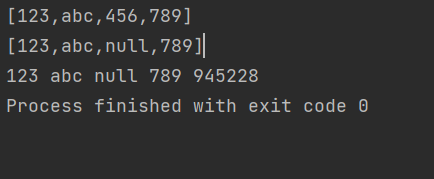
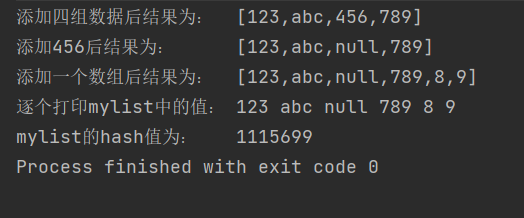
第二次作业：完善了addAll()函数

diff --git a/src/MyList/TestMyList.java b/src/MyList/TestMyList.java
@@ -12,14 +12,21 @@ public class TestMyList {
         mylist.add("abc");
         mylist.add(456);
         mylist.add(789);
-        System.out.println(mylist);
+        System.out.println("添加四组数据后结果为：\t"+mylist);
         mylist.remove(456);
-        System.out.println(mylist);
+        System.out.println("添加456后结果为：\t\t"+mylist);
+
+        Integer[] list = new Integer[2];
+        list[0]=8;
+        list[1]=9;
+        mylist.addAll(list);
+        System.out.println("添加一个数组后结果为：\t"+mylist);
 
         Object[] newlist = mylist.clone();
+        System.out.print("逐个打印mylist中的值：\t");
         for (Object obj:newlist)
             System.out.print(obj+" ");
-        System.out.print(mylist.hashCode());
+        System.out.print("\nmylist的hash值为：\t"+mylist.hashCode());
     }
 
 }

diff --git a/src/MyList/Mylist.java b/src/MyList/Mylist.java
@@ -61,7 +61,7 @@ public class Mylist {
      */
     public boolean addAll(Object[] other) {
         for (int i = 0; i < other.length; i++) {
-            this.add(other);
+            this.add(other[i]);
         }
         return this.containsAll(other);
     }
